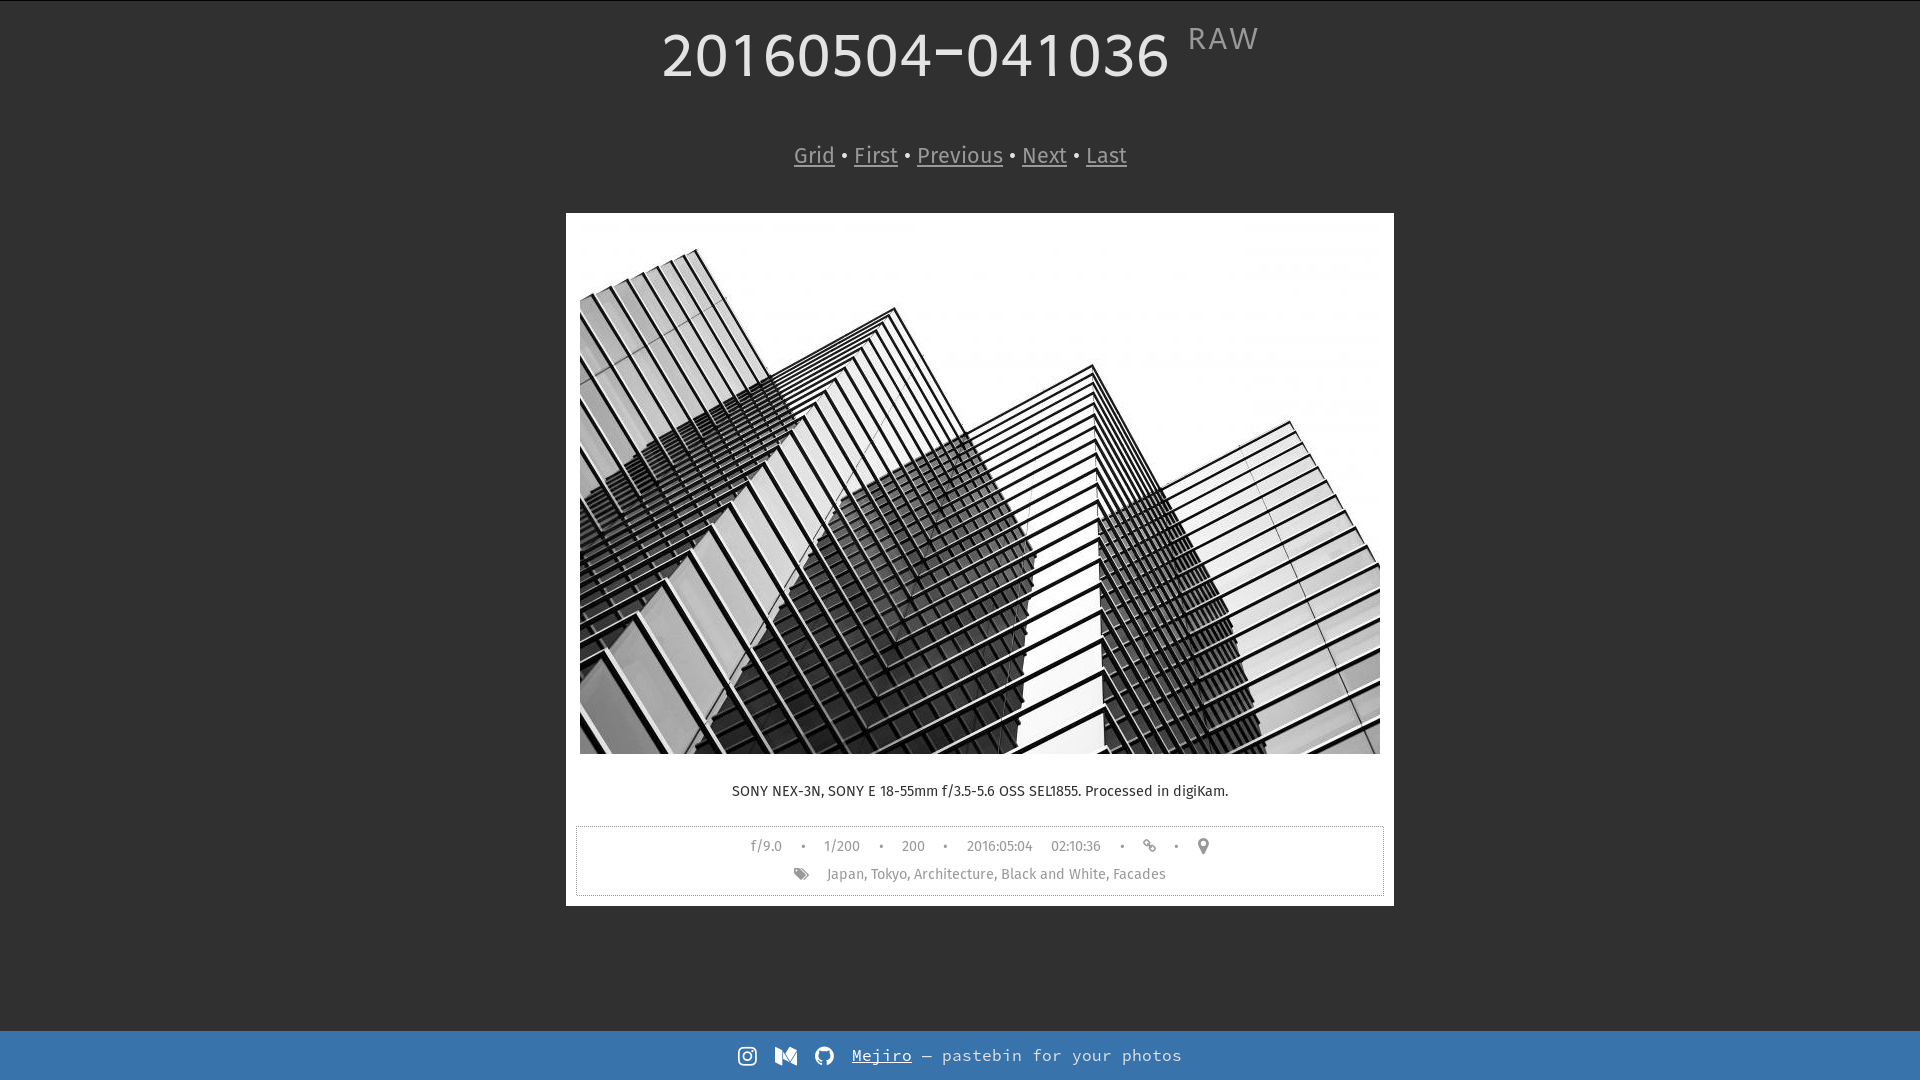
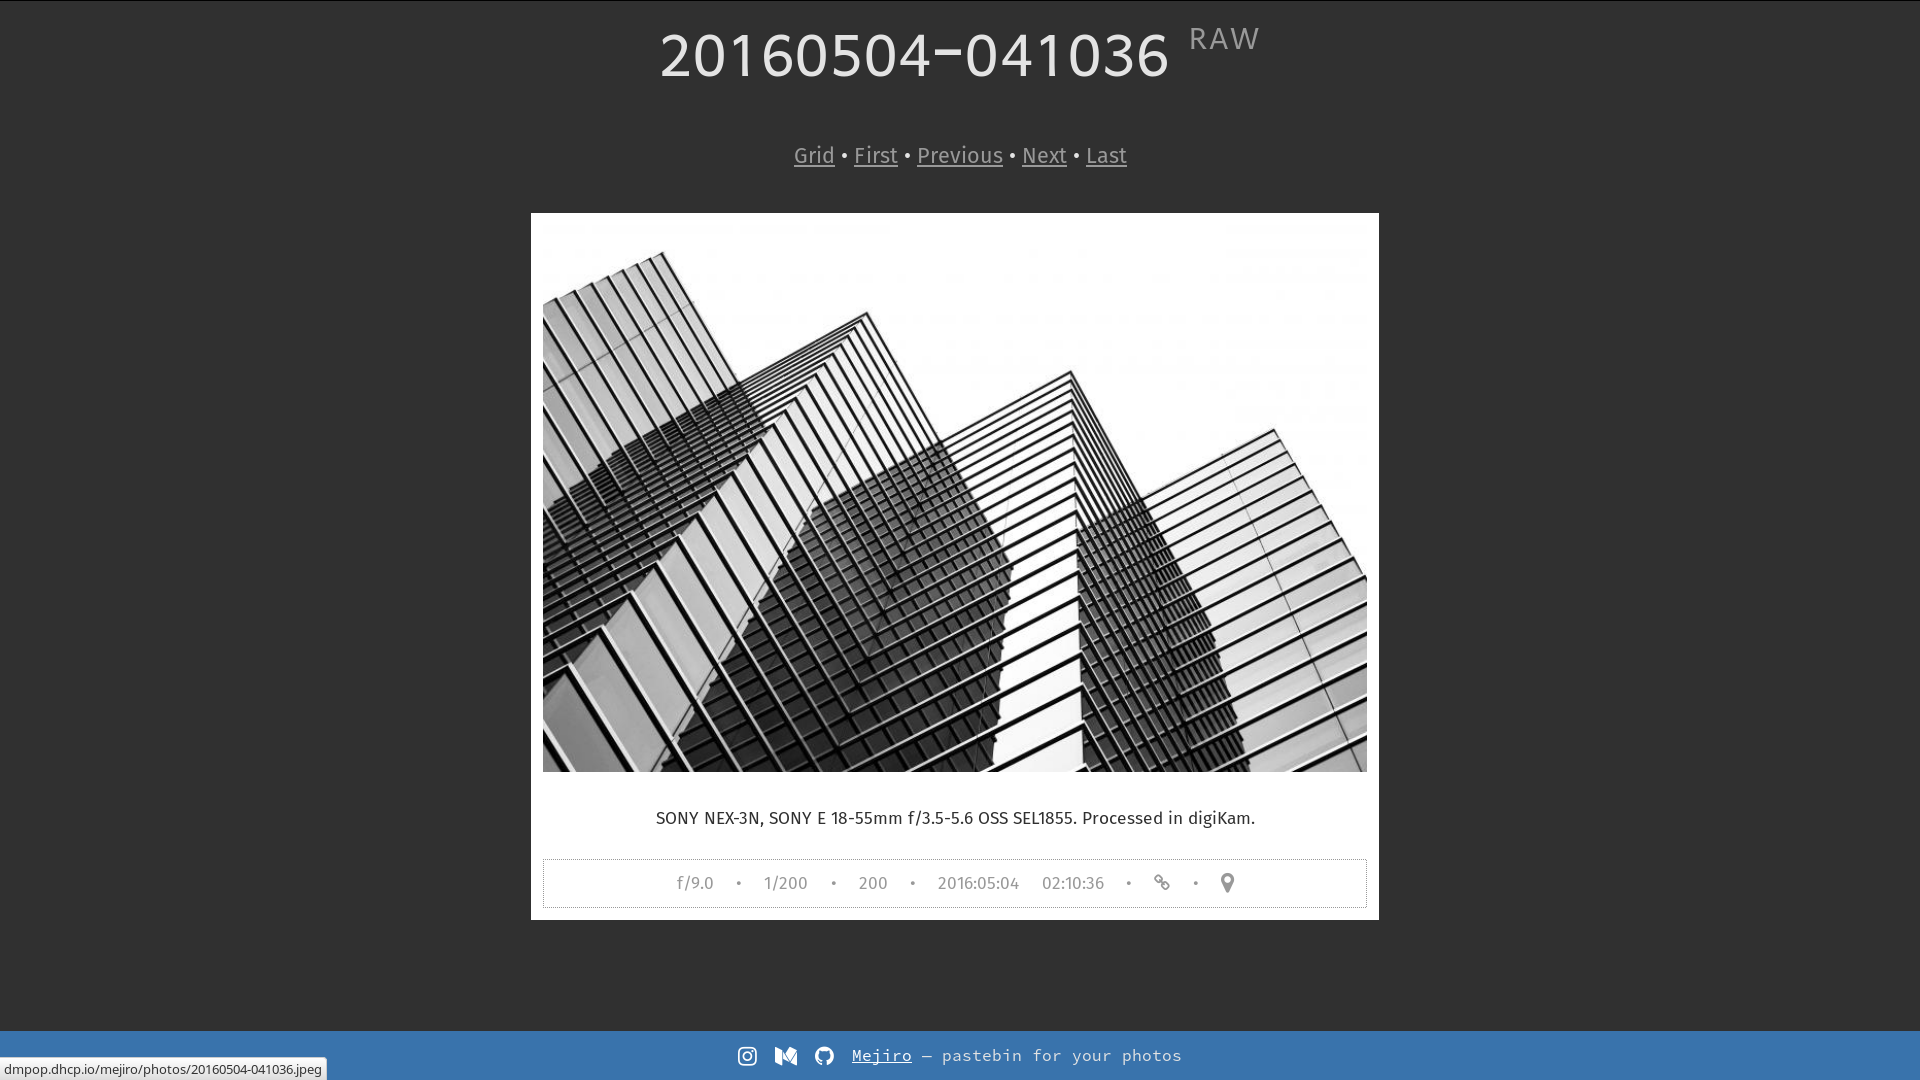
Removed support for IPTC keywords :monkey:

diff --git a/index.php b/index.php
@@ -296,18 +296,6 @@
 		if (empty($datetime)) {
 			$datetime="";
 		}
-		// Parse IPTC metadata and extract keywords
-		// http://stackoverflow.com/questions/9050856/finding-keywords-in-image-data
-		$size = getimagesize($file, $info);
-		if(isset($info['APP13'])) {
-			$iptc = iptcparse($info['APP13']);
-				if(isset($iptc['2#025'])) {
-					$keywords = $iptc['2#025'];
-				} else {
-					$keywords = array();
-				}
-		}
-		$keyword = implode(", ", $keywords);
 
 		//Generate map URL. Choose between Google Maps and OpenStreetmap
 		if ($google_maps){
@@ -326,7 +314,7 @@
 			$photo_info = $photo_info.$map_url;
 		}
 
-		$info = "<span style='word-spacing:1em'>".$photo_info."<br /><i class='fa fa-tags'></i> </span>".$keyword;
+		$info = "<span style='word-spacing:1em'>".$photo_info."</span>";
 		// Show photo, EXIF data, description, and info
 		echo '<div class="center"><ul class="rig column-1"><li><a href="'.$file.'"><img src="'.$tim.'" alt=""></a><p class="caption">'.$exif['COMMENT']['0'].' '.$description.'</p><p class="box">'.$info.'</p></li></ul></div>';
 	}

diff --git a/README.md b/README.md
@@ -10,7 +10,6 @@ Mejiro is an easy-to-use single-file PHP web app for instant photo publishing.
 - **Responsive design** Mejiro works well on mobile devices.
 - **Instant and easy photo publishing** Upload photos, and Mejiro does the rest.
 - **Basic EXIF data** The app extracts and displays basic EXIF info for each photo, including aperture, shutter speed, and ISO.
-- **IPTC keywords** Mejiro parses IPTC metadata and displays keywords assigned to photos.
 - **Display geographical coordinates on OpenStreetMap or Google Maps** For geotagged photos, you can view their exact locations on OpenStreetMap.
 - **Short URLs** Mejiro can use a URL shortening service of your choice (default is [is.gd](http://is.gd/)) to generate short URLs for easy sharing.
 - **Optional description text** You can add a description to each photo by creating an accompanying *.txt* file. The app can also read and display descriptions from the photo's *UserComment* EXIF field.
